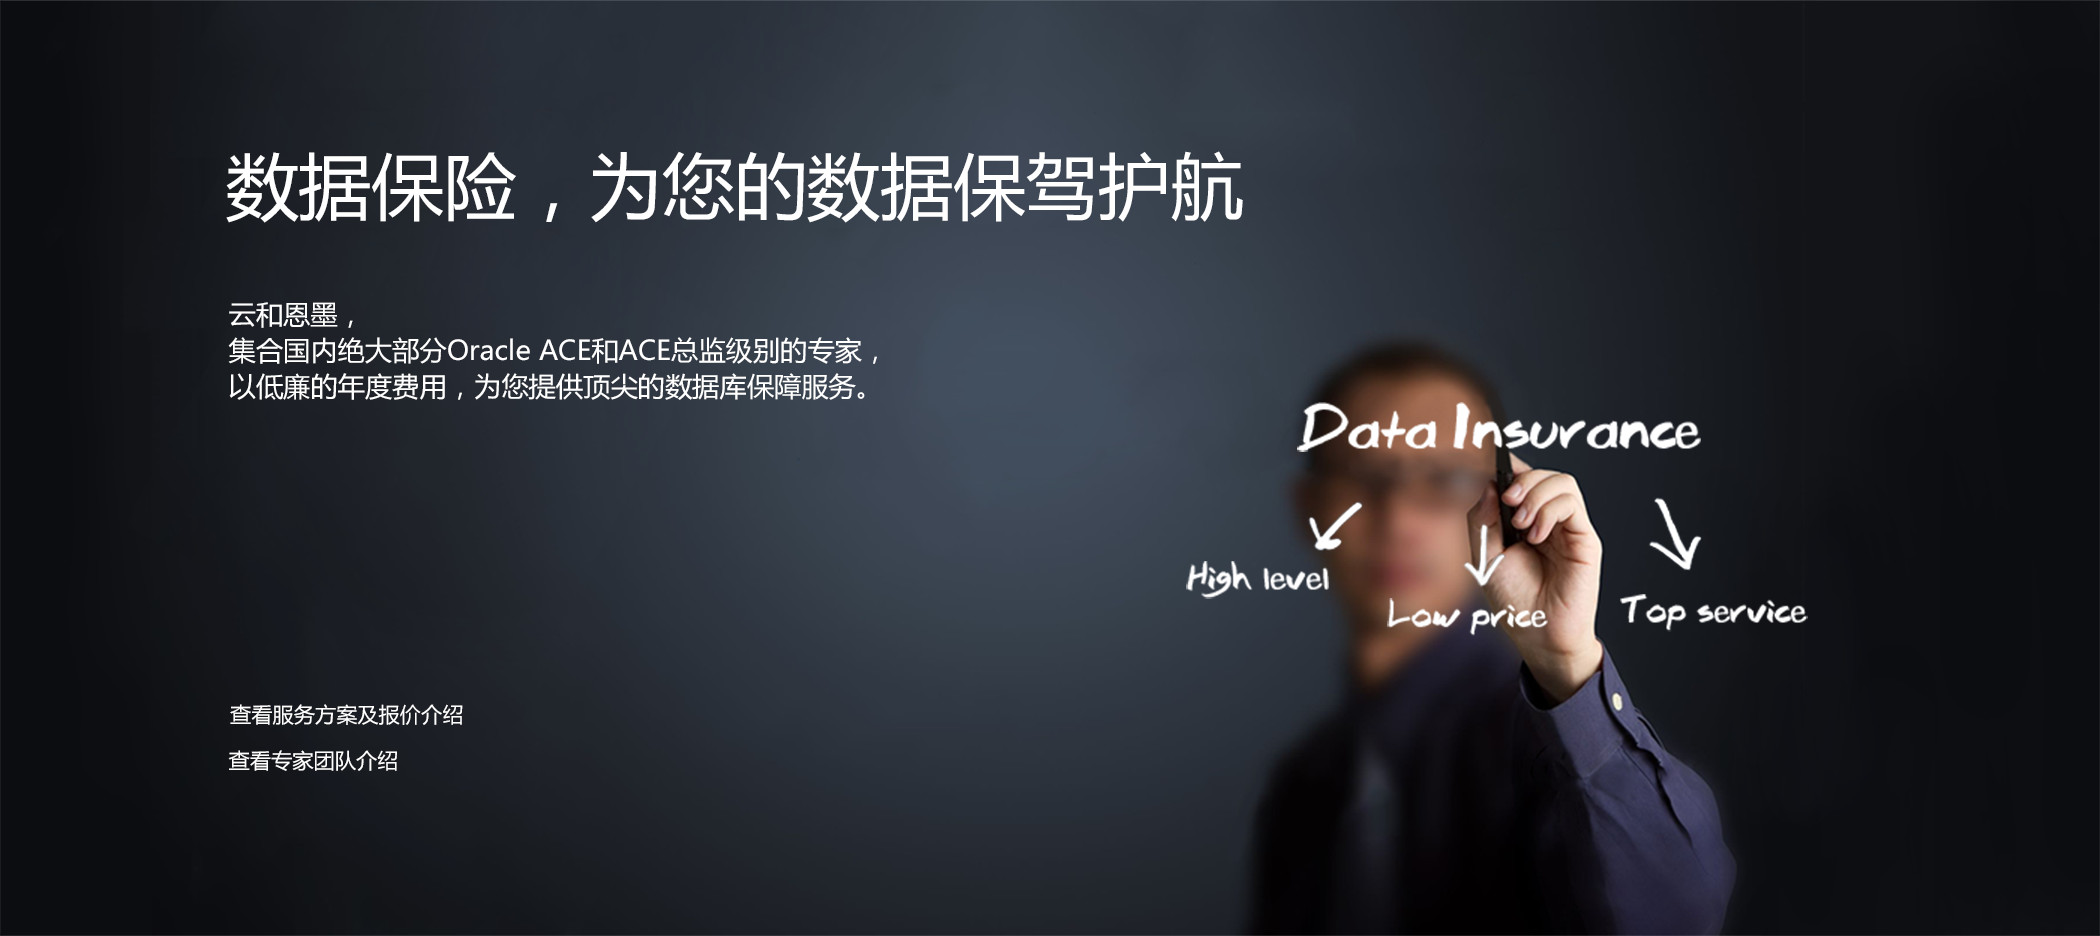
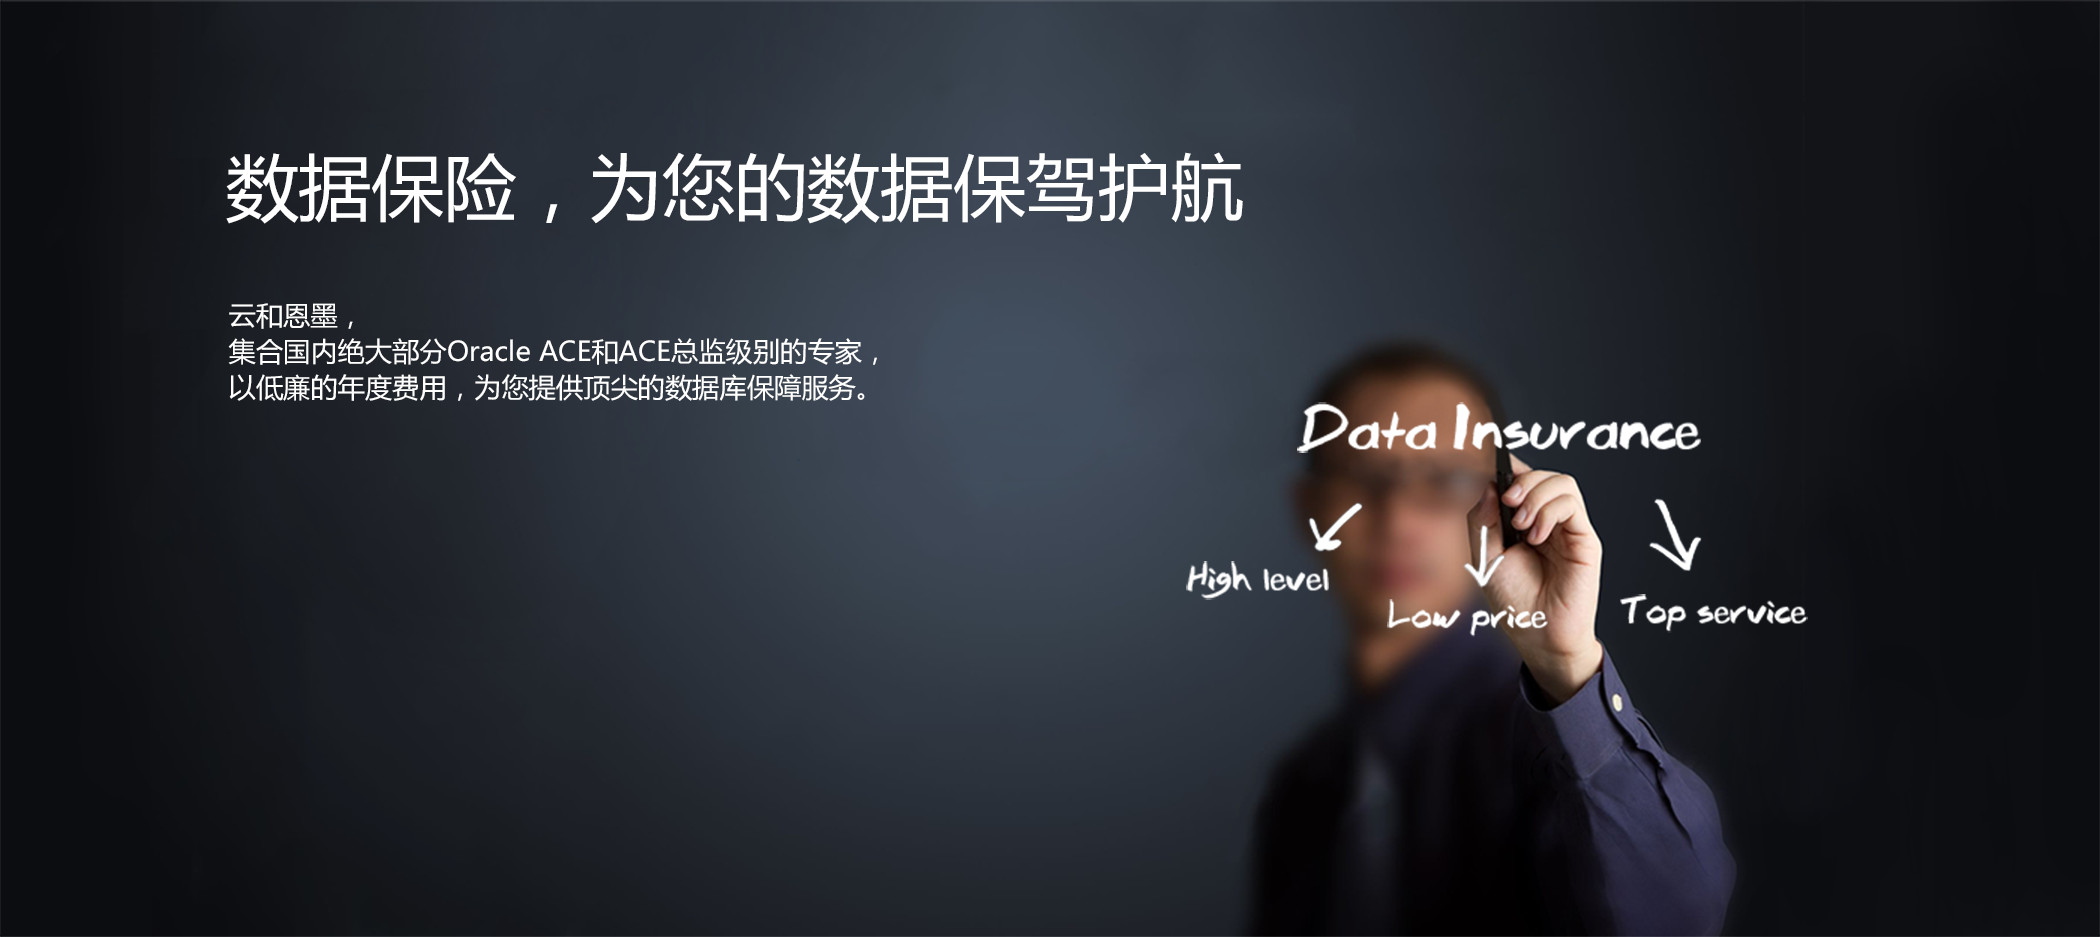
little fix to index.html

diff --git a/index.html b/index.html
@@ -24,8 +24,8 @@
 		    			<a href="index.html"><img src="img/logo.png" alt="logo" class="img-responsive"></a>
 		    		</div>
 		    		<div class="pull-right user-action">
-			    		<a href="" class="">登录</a>
-			    		<a href="" class="">注册</a>
+			    		<a href="login.html" class="">登录</a>
+			    		<a href="regist.html" class="">注册</a>
 		    		</div>
 		    		<div class="clearfix"></div>
 		    	</div>
@@ -55,10 +55,18 @@
 		    	  <!-- Wrapper for slides -->
 		    	  <div class="carousel-inner">
 		    	    <div class="item active">
-		    	      <img src="img/home-assets/slide01.jpg" alt="slide01">
+		    	    	<img src="img/home-assets/slide01.jpg" alt="slide01">
+						<div class="carousel-caption">
+							<p><a href="service.html">查看服务方案及报价介绍</a></p>
+							<p><a href="team.html">查看专家团队介绍</a></p>
+						</div>
 		    	    </div>
 		    	    <div class="item">
 		    	      <img src="img/home-assets/slide01.jpg" alt="slide01">
+						<div class="carousel-caption">
+							<p><a href="service.html">查看服务方案及报价介绍</a></p>
+							<p><a href="team.html">查看专家团队介绍</a></p>
+						</div>
 		    	    </div>
 		    	  </div>
 		    	</div>
@@ -70,7 +78,7 @@
 			    	<div class="container">
 				    	<div class="well light-blue">
 					    	<blockquote>
-							 	<p>数据库不是已经崩溃，就是在崩溃的途中。无人值守的数据库总是会在意料之外而实际上又是意料之中地发生故障。数据库的故障，通常意味着业务的中断。</p>
+							 	<p><span class="quote">“</span>数据库不是已经崩溃，就是在崩溃的途中。无人值守的数据库总是会在意料之外而实际上又是意料之中地发生故障。数据库的故障，通常意味着业务的中断。<span class="quote">”</span></p>
 							 	<footer><cite title="Source Title">云和恩墨</cite></footer>
 							</blockquote>
 				    	</div>

diff --git a/css/main.css b/css/main.css
@@ -1,13 +1,26 @@
 .well blockquote {
   border: none;
+  margin: 0;
+}
+.well blockquote span.quote {
+  font-family: 'Simsum', serif;
+  font-size: 30px;
+  line-height: 20px;
+}
+.well blockquote p {
+  font-size: 14px;
 }
 .well blockquote footer {
   text-align: right;
   padding-right: 60px;
+  padding-bottom: 0;
+  color: inherit;
 }
 .light-blue {
-  background: #effbff;
-  border-color: #cdd9dd;
+  background: #CDE9F4;
+  border: none;
+  -webkit-box-shadow: none;
+  box-shadow: none;
 }
 .center-block {
   display: block;
@@ -21,6 +34,22 @@ header .logo {
   width: 134px;
   height: 44px;
   margin-top: 9px;
+}
+header .user-action a {
+  display: inline-block;
+  margin-right: 24px;
+}
+.carousel-caption {
+  left: 10.8%;
+  right: auto;
+  text-align: left;
+  bottom: 10.8%;
+}
+.carousel-caption a {
+  color: #fff;
+}
+.carousel-caption a:hover {
+  text-decoration: none;
 }
 nav {
   background: #0091d0;
@@ -100,7 +129,7 @@ section.why-choose-us .container > .row {
   margin: 0;
 }
 .service-contrast {
-  margin: 48px 0;
+  margin: 48px 0 72px;
 }
 .service-contrast .item {
   background: #FAFAFA;

diff --git a/css/less/main.less b/css/less/main.less
@@ -22,16 +22,30 @@
 .well {
 	blockquote {
 		border: none;
+		margin: 0;
+
+		span.quote {
+			font-family: 'Simsum', serif;
+			font-size: 30px;
+			line-height: 20px;
+		}
+
+		p {
+			font-size: 14px;
+		}
 
 		footer {
 			text-align: right;
 			padding-right: 60px;
+			padding-bottom: 0;
+			color: inherit;
 		}
 	}
 }
 .light-blue {
-	background: @c-light-blue;
-	border-color: @c-light-blue - #222;
+	background: #CDE9F4;
+	border: none;
+	box-shadow: none;
 }
 .center-block {
 	display: block;
@@ -50,6 +64,32 @@ header {
 		width: 134px;
 		height: 44px;
 		margin-top: 9px;
+	}
+
+	.user-action {
+		a {
+			display: inline-block;
+			margin-right: 24px;
+		}
+	}
+}
+
+// ----------------------------------------
+// ! banner
+// ----------------------------------------
+
+.carousel-caption {
+	left: 10.8%;
+	right: auto;
+	text-align: left;
+	bottom: 10.8%;
+
+	a {
+		color: #fff;
+
+		&:hover {
+			text-decoration: none;
+		}
 	}
 }
 
@@ -153,7 +193,7 @@ section.why-choose-us {
 }
 
 .service-contrast {
-	margin: 48px 0;
+	margin: 48px 0 72px;
 
 	.item {
 		background: #FAFAFA;
